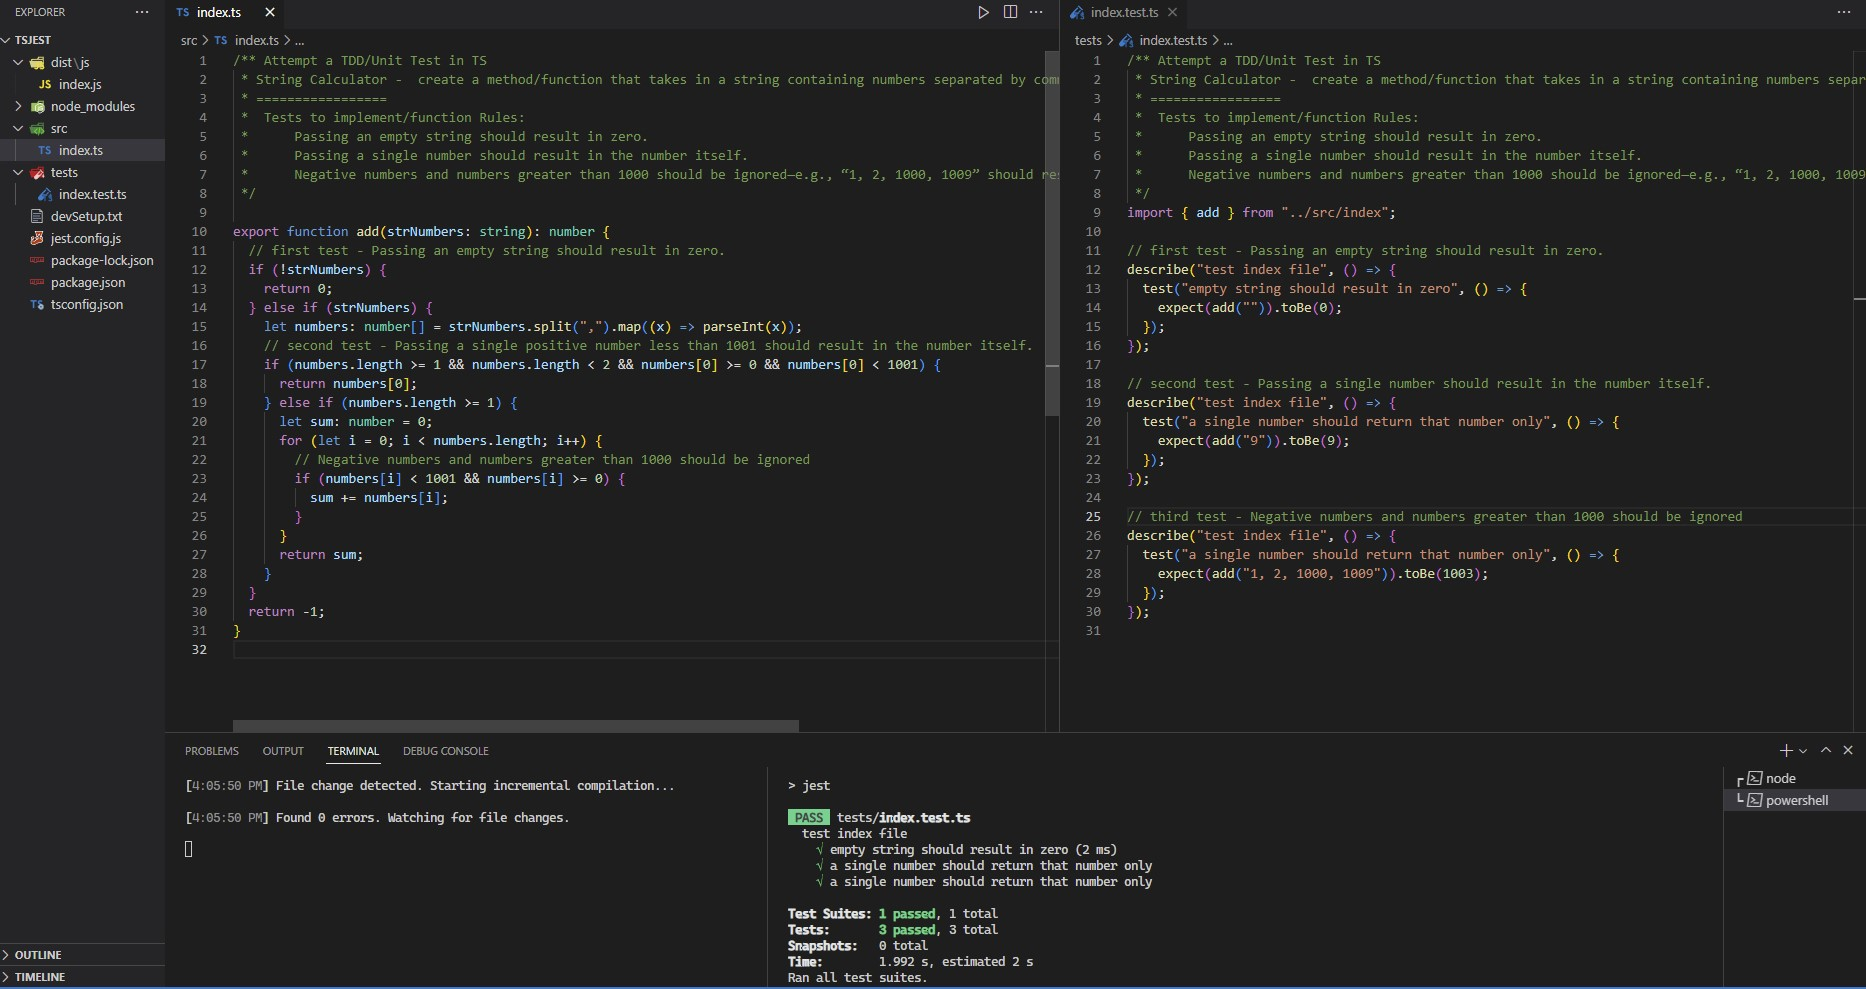
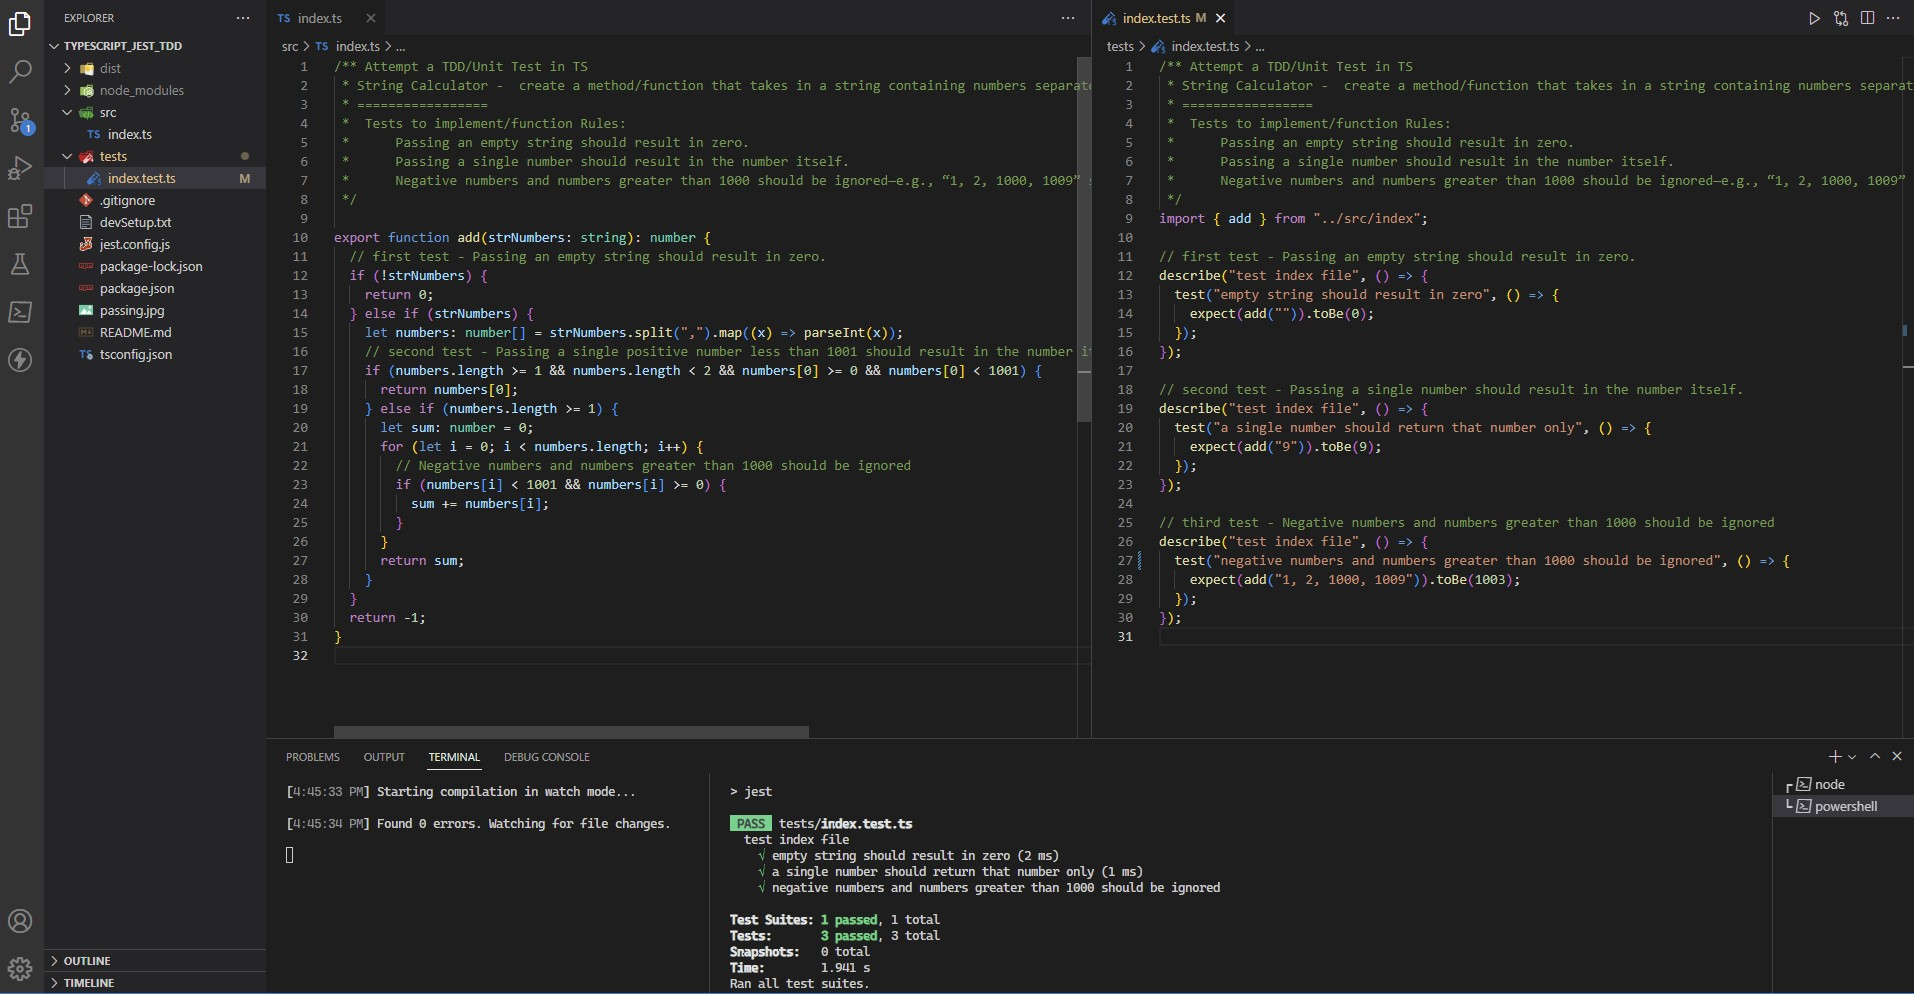
passing tests

diff --git a/tests/index.test.ts b/tests/index.test.ts
@@ -24,7 +24,7 @@ describe("test index file", () => {
 
 // third test - Negative numbers and numbers greater than 1000 should be ignored
 describe("test index file", () => {
-  test("a single number should return that number only", () => {
+  test("negative numbers and numbers greater than 1000 should be ignored", () => {
     expect(add("1, 2, 1000, 1009")).toBe(1003);
   });
 });
